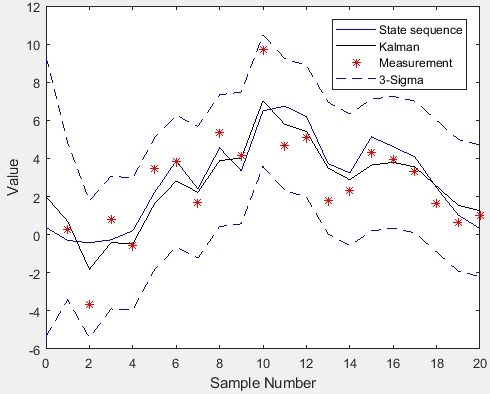
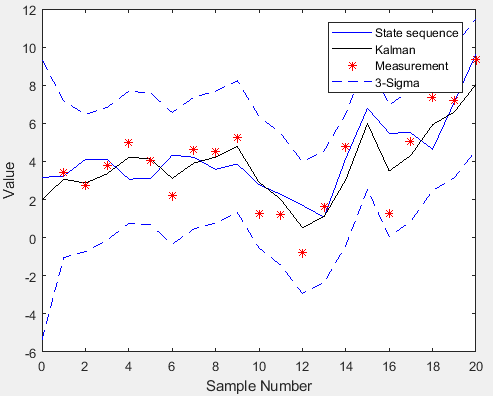
Rapport

diff --git a/HA_2/Analysis/Task_2.m b/HA_2/Analysis/Task_2.m
@@ -1,5 +1,5 @@
 clear all; close all;
-Task = 'b';
+Task = 'c';
 
 N = 20;
 T = 0.01;
@@ -22,7 +22,7 @@ P_0 =[4 0;
 X = genLinearStateSequence(x_0, P_0, A, Q, N);
 Y = genLinearMeasurementSequence(X, H, R);
 [Xhat, P, v] = kalmanFilter(Y, x_0, P_0, A, Q, H, R);
-
+Xhat_old = [];
     
 switch Task
     case {'a'}
@@ -43,8 +43,12 @@ switch Task
         hold all
         plot(t,Y,'r*')
         plot(t,Xhat(1,:),'k')
-        plot(t,X(1,2:end)+3*sqrt(P(:)'),'b--')
-        plot(t,X(1,2:end)-3*sqrt(P(:)'),'b--')
+        for i = 1:N
+            P_pos(i) = P(i*4-3);
+            P_vel(i) = P(i*4);
+        end
+        plot(t,Xhat(1,:)+3*sqrt(P_pos),'b--')
+        plot(t,Xhat(1,:)-3*sqrt(P_pos),'b--')
         legend('True position', 'Measurement', 'Filtered Measurement','3-Sigma level')
         xlabel('Time [s]')
         ylabel('Position')
@@ -52,34 +56,44 @@ switch Task
         plot(t,X(2,2:end))
         hold all
         plot(t,Xhat(2,:))
-        legend('True velocity', 'Estimated velocity')
+        plot(t,Xhat(2,:)+3*sqrt(P_vel),'b--')
+        plot(t,Xhat(2,:)-3*sqrt(P_vel),'b--')
+        legend('True velocity', 'Estimated velocity', '3-Sigma level')
         xlabel('Time [s]')
         ylabel('Velocity')
     case {'c'}
         q = [0.1 1 10 1.5];
         for i = 1:length(q)
             clear [Xhat,P,v,Q]
+            Xhat_old = [Xhat_old; Xhat];
             Q = [0 0;
                  0 q(i)];
             [Xhat, P, v] = kalmanFilter(Y, x_0, P_0, A, Q, H, R);
+            for l = 1:N
+                P_pos(l) = P(l*4-3);
+                P_vel(l) = P(l*4);
+            end
             figure(i)
             plot(t,X(1,2:end))
             hold all
             plot(t,Y,'y*')
             plot(t,Xhat(1,:))
-            plot(t,X(1,2:end)+3*sqrt(R),'b--')
-            plot(t,X(1,2:end)-3*sqrt(R),'b--')
+            plot(t,X(1,2:end)+3*sqrt(P_pos),'b--')
+            plot(t,X(1,2:end)-3*sqrt(P_pos),'b--')
             current = sprintf('Q = %0.1f', q(i)); 
             title(current)
             legend('True position', 'Measurement', 'Filtered Measurement','3-Sigma level')
             xlabel('Time [s]')
             ylabel('Position')
             figure(5)
-            subplot(4,1,i)
+            subplot(2,2,i)
             plot(t,X(2,2:end))
             hold all
             plot(t,Xhat(2,:))
-            legend('True velocity', 'Estimated velocity')
+            plot(t,X(2,2:end)+3*sqrt(P_vel),'b--')
+            plot(t,X(2,2:end)-3*sqrt(P_vel),'b--')
+            title(current)
+            legend('True velocity', 'Estimated velocity', '3-Sigma level')
             xlabel('Time [s]')
             ylabel('Velocity')
         end

diff --git a/HA_2/Analysis/Task_1.m b/HA_2/Analysis/Task_1.m
@@ -1,5 +1,5 @@
 clear all; close all;
-Task = 'f';
+Task = 'b';
 
 N = 20;
 k = 11;
@@ -61,11 +61,14 @@ switch Task
         plot([Y(:,14) Y(:,14)], [0 0.5],'r--')
         legend('True state', 'Posterior density', 'Measurement')
         figure(3)
+        h = -6:0.01:6;
         Xerror = X(:,2:end) - Xhat;
-        plot(Xerror,'.')
+        Xerror_pdf = normpdf(h,0,cov(Xerror));
+        Xhat_cov = normpdf(h,0,P(:,:,N));
+        plot(h, Xerror_pdf)
         hold all
-        plot([0 N], [3*sqrt(cov(Xerror)) 3*sqrt(cov(Xerror))])
-        legend('Estimation error', '3-Sigma error')
+        plot(h, Xhat_cov)
+        legend('COV of X_{error}', 'COV with P_{N|N}')
     case {'c'}
         z = [min([Xhat(k-1) Xhat(k)])-8:0.01:max([Xhat(k-1) Xhat(k)])+8];
         xpdf_1 = normpdf(z,Xhat(k-1),P(:,:,k-1));
